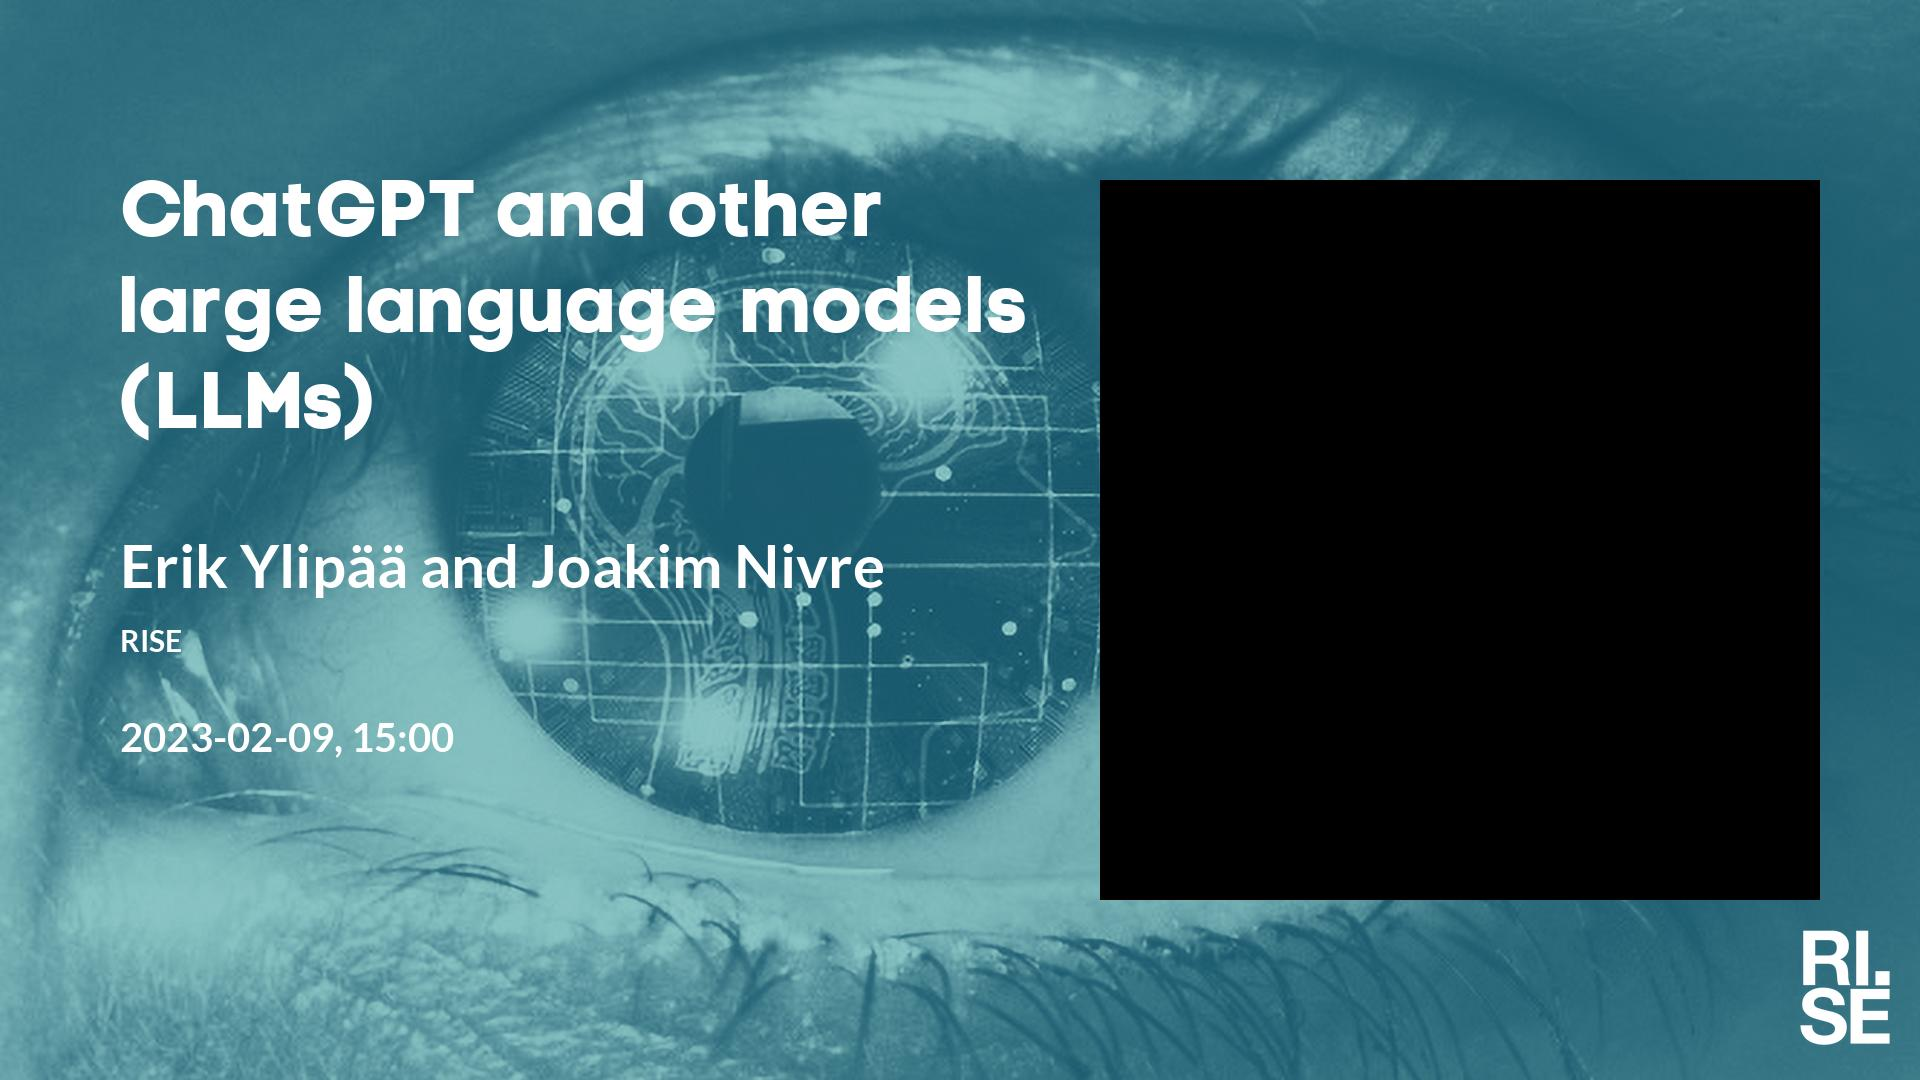
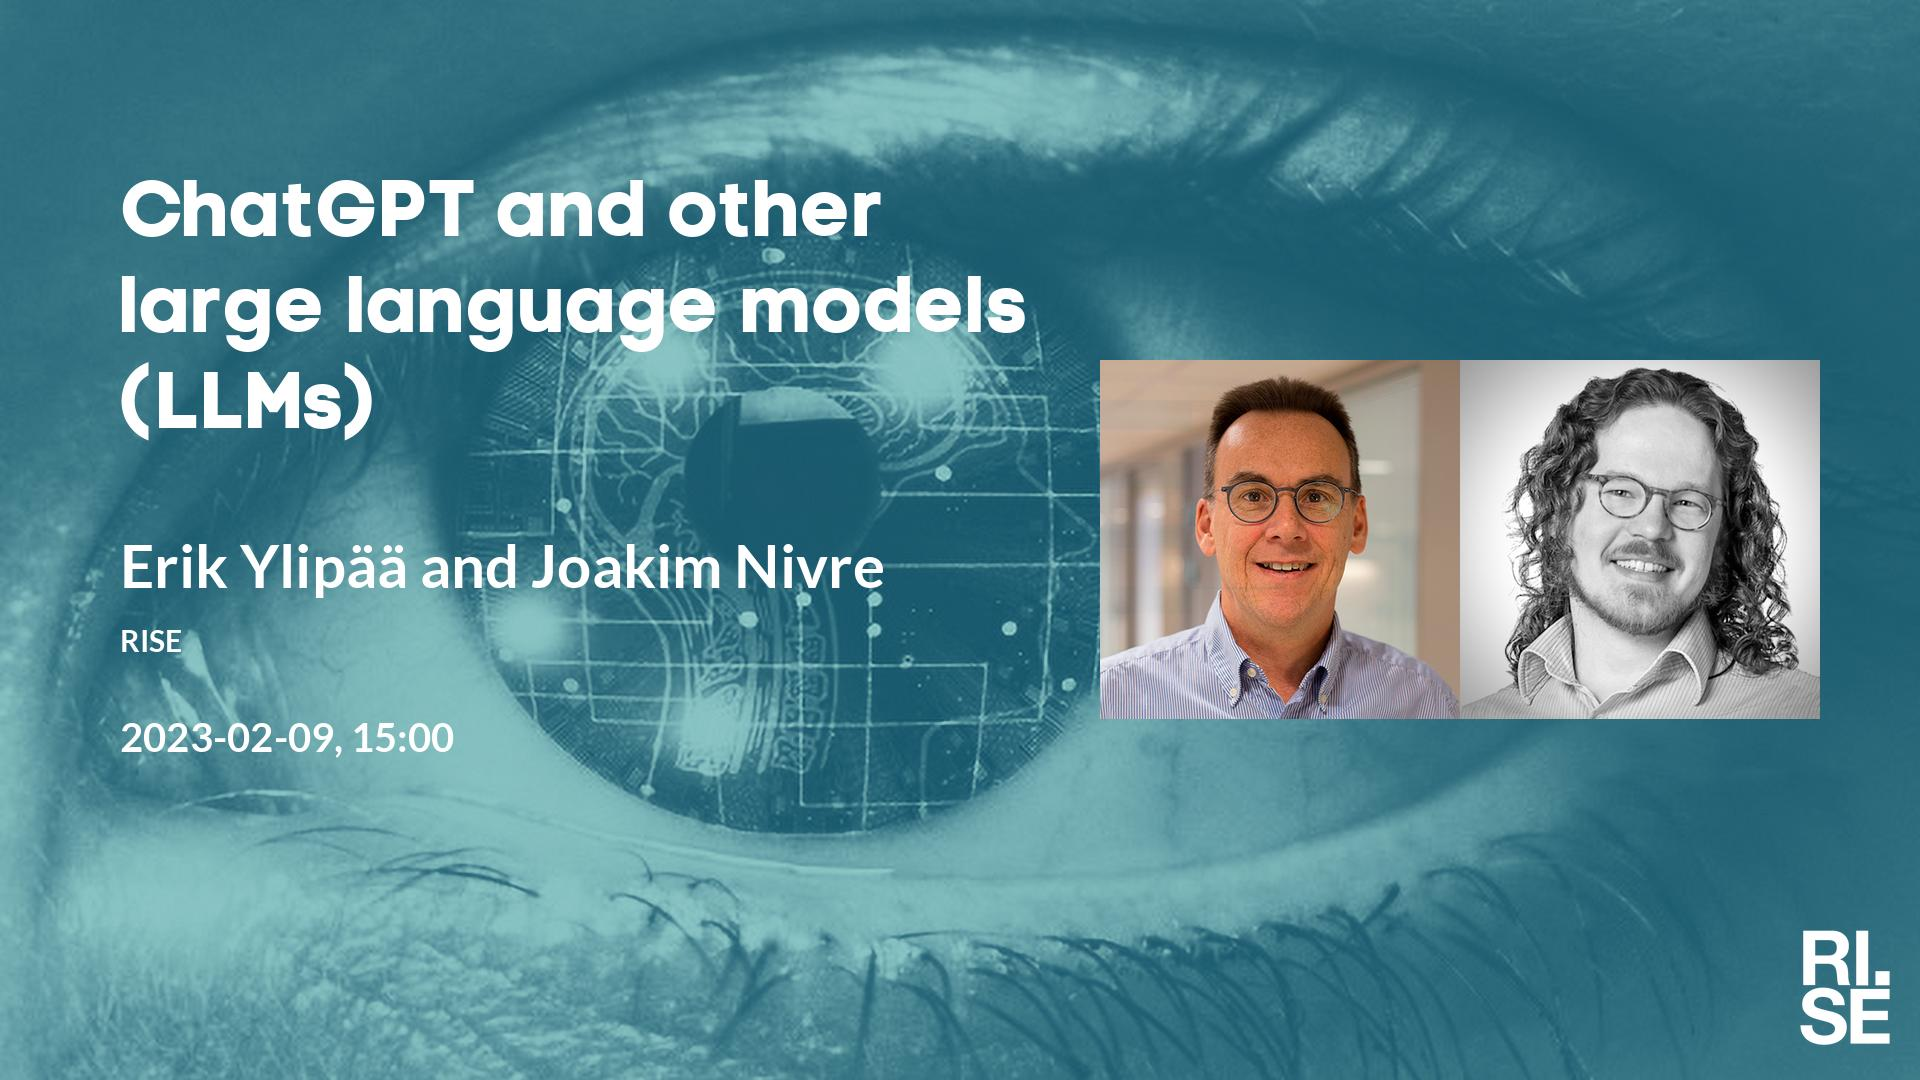
Updated plan on web site.

Changed region(s): [[0.5625, 0.1528, 0.9688, 0.8556]]

diff --git a/lm/index.md b/lm/index.md
@@ -1,7 +1,7 @@
 <style type="text/css" scoped>
 td, th {border: 1px solid #ccc; padding: 0.6em;}
 table {border-collapse: collapse;}
-</style># Learning Machines Plan 2023-01-26
+</style># Learning Machines Plan 2023-01-30
 
 | date | speaker                                   | photo | shareable | meeting backdrop | youtube thumbnail | <a title="Speaker, Title, Abstract, Bio, Photo. Strikethrough means we don't have it yet.">comment</a>        |
 | ---- | ----------------------------------------- | ----- | ----- | ----- | ----- | -------------- |
@@ -9,7 +9,7 @@ table {border-collapse: collapse;}
 |  2023-01-19  |  [Giulia Fanti, Carnegie Mellon University](2023-01-19.md)  |  [photo](photo-giulia-fanti.jpg)  |  [social media ](social-media-giulia-fanti.jpg)  |  [meeting backdrop ](meeting-backdrop-giulia-fanti.jpg)  |  [youtube thumbnail ](youtube-thumbnail-giulia-fanti.jpg)  |  STABP  |
 |  2023-01-26  |  [Lena Voita, FAIR](2023-01-26.md)  |  [photo](photo-lena-voita.jpg)  |  [social media ](social-media-lena-voita.jpg)  |  [meeting backdrop ](meeting-backdrop-lena-voita.jpg)  |  [youtube thumbnail ](youtube-thumbnail-lena-voita.jpg)  |  STABP  |
 |  2023-02-02  |  [Vincent Szolnoky, Chalmers University of Technology](2023-02-02.md)  |  [photo](photo-vincent-szolnoky.png)  |  [social media ](social-media-vincent-szolnoky.jpg)  |  [meeting backdrop ](meeting-backdrop-vincent-szolnoky.jpg)  |  [youtube thumbnail ](youtube-thumbnail-vincent-szolnoky.jpg)  |  STABP  |
-|  2023-02-09  |  [Erik Ylipää and Joakim Nivre, RISE](2023-02-09.md)  |    |  [social media ](social-media-erik-ylipaa-and-joakim-nivre.jpg)  |  [meeting backdrop ](meeting-backdrop-erik-ylipaa-and-joakim-nivre.jpg)  |  [youtube thumbnail ](youtube-thumbnail-erik-ylipaa-and-joakim-nivre.jpg)  |  ST~~ABP~~  |
+|  2023-02-09  |  [Erik Ylipää and Joakim Nivre, RISE](2023-02-09.md)  |  [photo](photo-erik-ylipaa-and-joakim-nivre.jpg)  |  [social media ](social-media-erik-ylipaa-and-joakim-nivre.jpg)  |  [meeting backdrop ](meeting-backdrop-erik-ylipaa-and-joakim-nivre.jpg)  |  [youtube thumbnail ](youtube-thumbnail-erik-ylipaa-and-joakim-nivre.jpg)  |  ST~~AB~~P  |
 | <span style="color:red"> 2023-02-16 </span> | <span style="color:red"> Sportlov-GBG </span> | <span style="color:red">  </span> | <span style="color:red">  </span> | <span style="color:red">  </span> | <span style="color:red">  </span> | <span style="color:red"> CANCELLED </span> |
 |  2023-02-23  |  [Alexander Ilin, Aalto University](2023-02-23.md)  |  [photo](photo-alexander-ilin.jpg)  |  [social media ](social-media-alexander-ilin.jpg)  |  [meeting backdrop ](meeting-backdrop-alexander-ilin.jpg)  |  [youtube thumbnail ](youtube-thumbnail-alexander-ilin.jpg)  |  S~~TAB~~P  |
 | <span style="color:red"> 2023-03-02 </span> | <span style="color:red"> Sportlov-STHLM </span> | <span style="color:red">  </span> | <span style="color:red">  </span> | <span style="color:red">  </span> | <span style="color:red">  </span> | <span style="color:red"> CANCELLED </span> |
